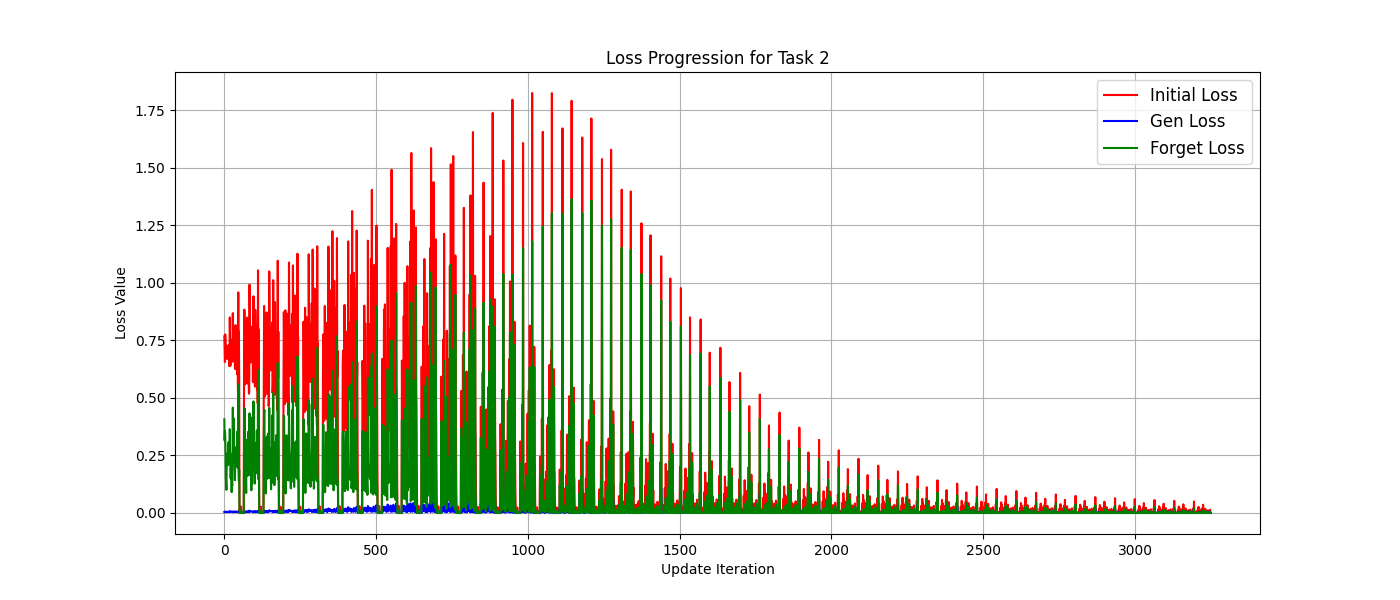
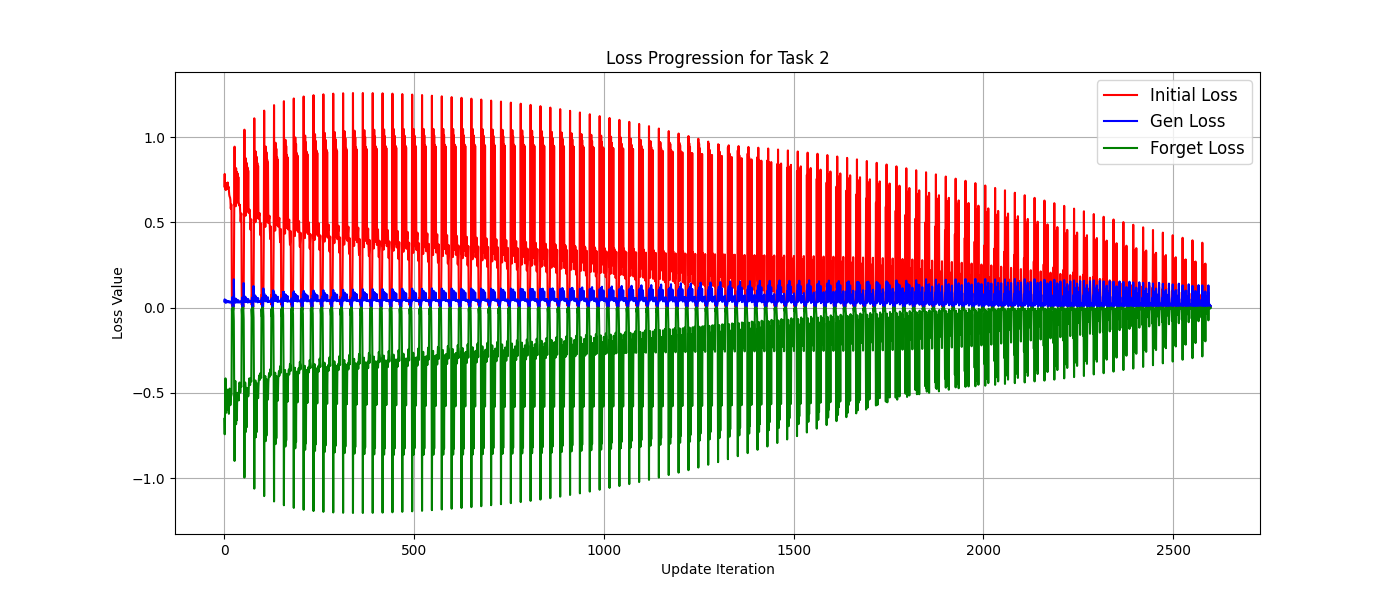
Loss Plot Generated

diff --git a/bcl_model.py b/bcl_model.py
@@ -30,7 +30,7 @@ def remap_labels(target):
 
 
 class BCLModel:
-    def __init__(self, model, lr=0.001, epsilon=0.01, k_range=100, x_updates=15, theta_updates=15):
+    def __init__(self, model, lr=0.001, epsilon=0.01, k_range=100, x_updates=10, theta_updates=10):
         self.model = model
         self.optimizer = optim.SGD(self.model.parameters(), lr=lr)
         self.criterion = nn.CrossEntropyLoss()

diff --git a/main.py b/main.py
@@ -6,7 +6,7 @@ from visualize import plot_loss
 
 def main():
     # Load data
-    tasks_train, tasks_test = load_split_mnist_data(batch_size=1, max_samples_per_task=500)
+    tasks_train, tasks_test = load_split_mnist_data(batch_size=1, max_samples_per_task=20)
 
     # Initialize model
     model = TaskSpecificMLP()
